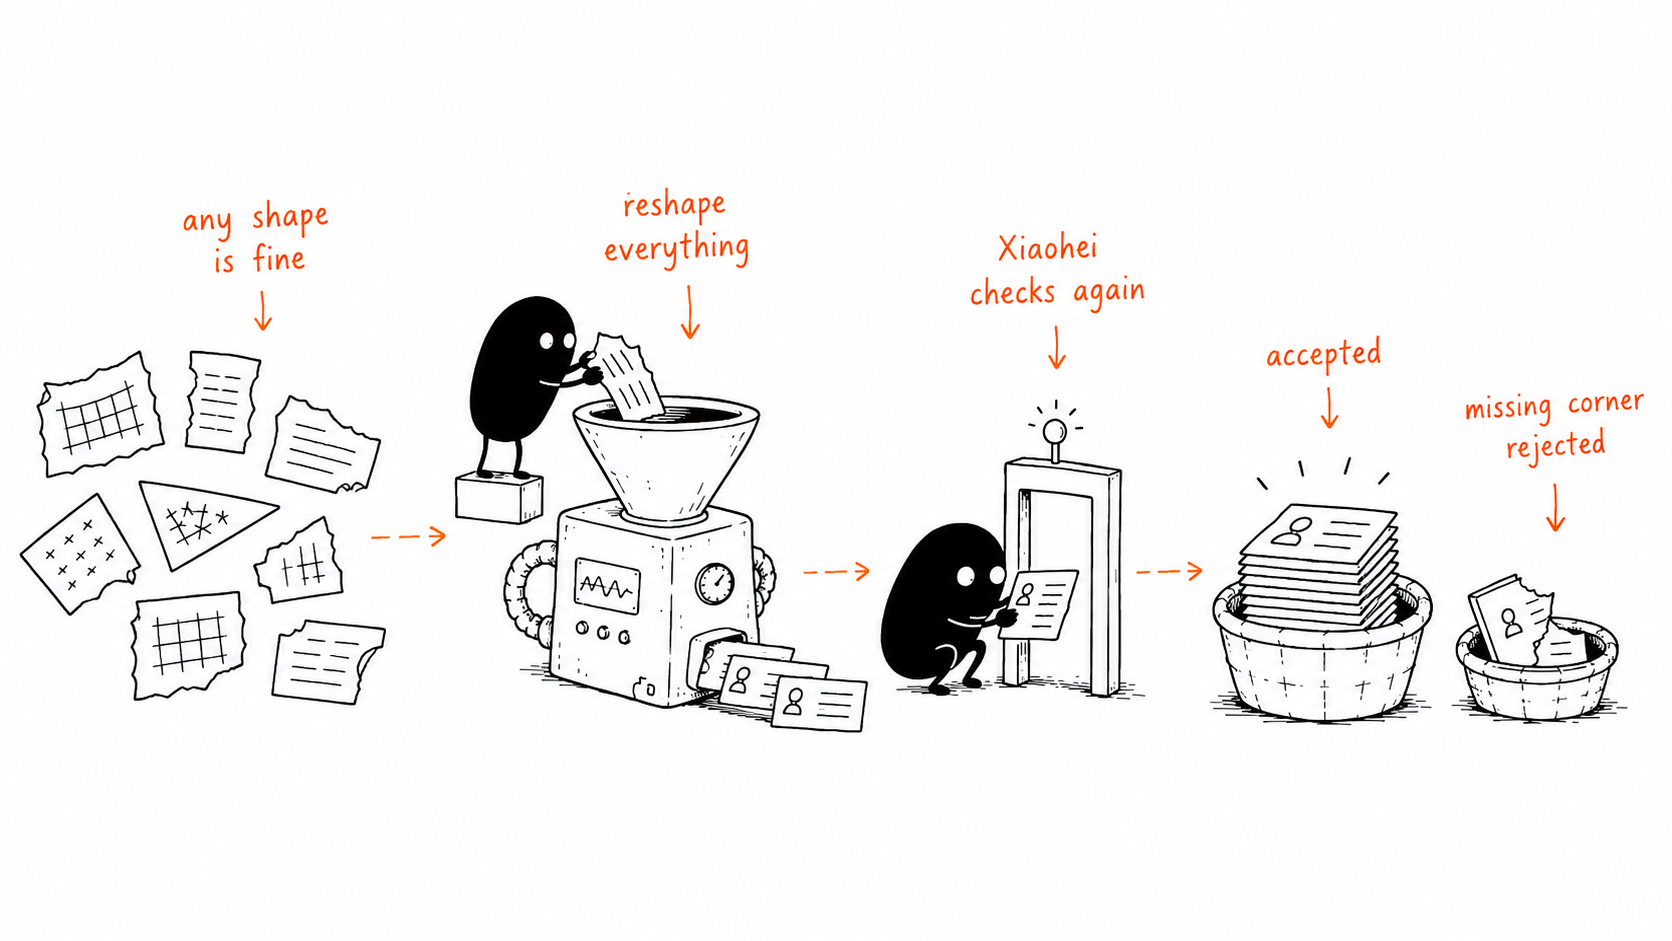
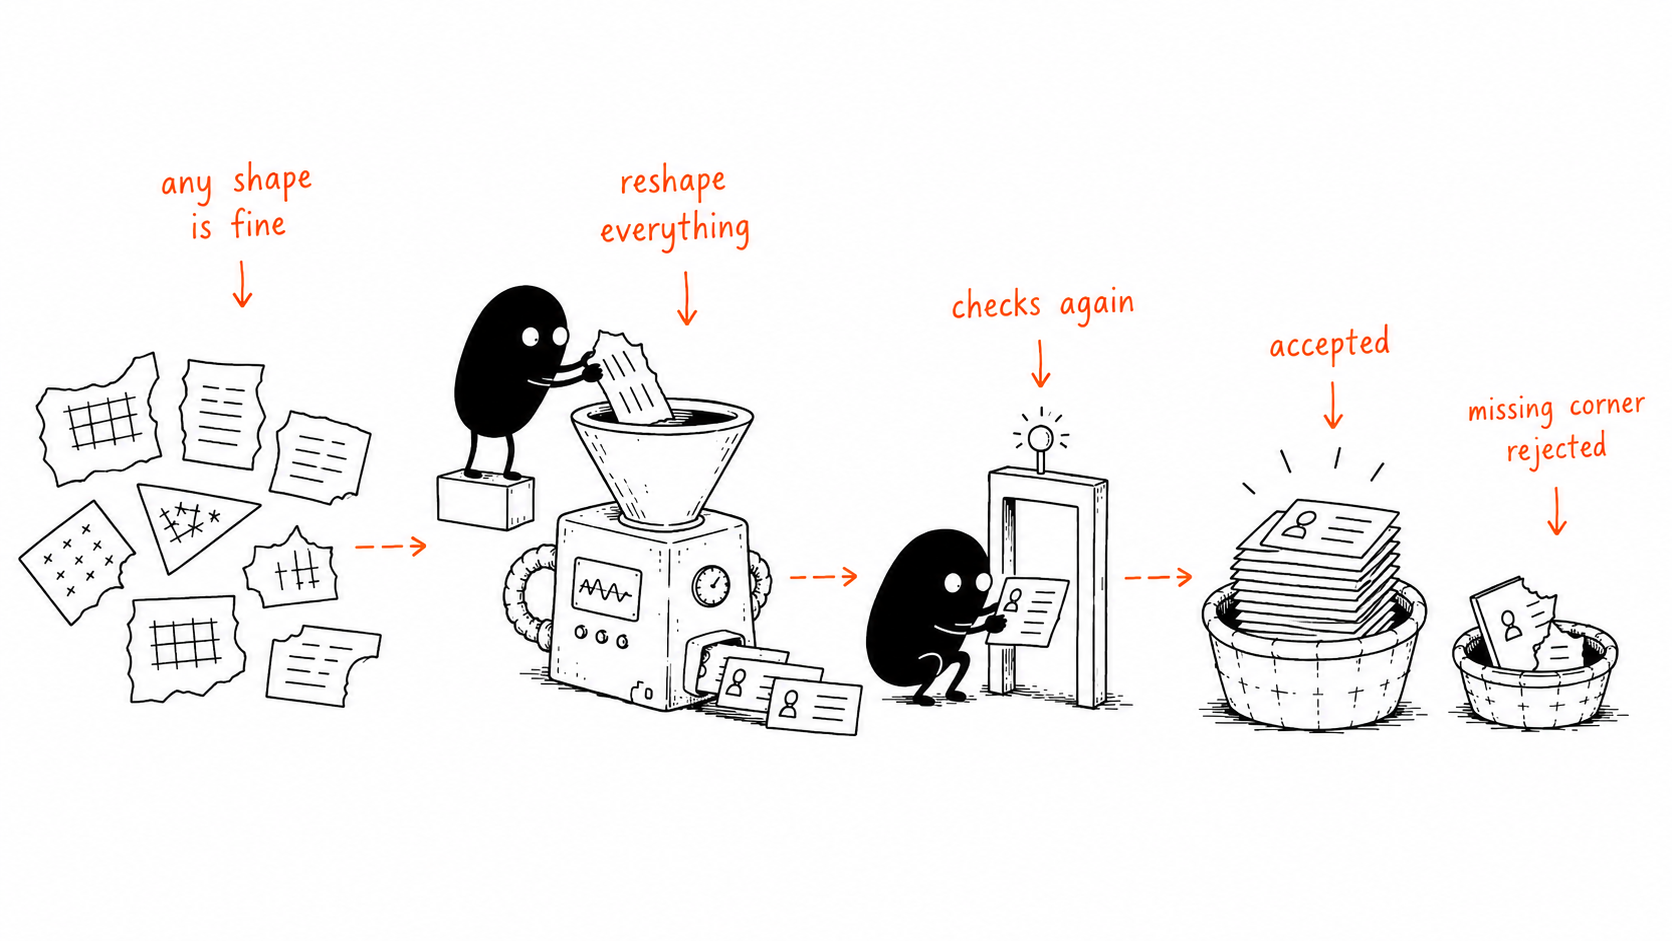
docs: swap how-it-works illustration and fix architecture diagram rendering
Replaces the illustration with an updated version and rewrites the
architecture diagram as plain-ASCII flow — the old box-drawing Unicode
diagram misaligned in GitHub's code-block font.

diff --git a/README.md b/README.md
@@ -7,7 +7,7 @@
 ![Node](https://img.shields.io/badge/node-%E2%89%A520.9-brightgreen)
 ![TypeScript](https://img.shields.io/badge/typescript-5.x-blue)
 ![Express](https://img.shields.io/badge/backend-express-lightgrey)
-![Next.js](https://img.shields.io/badge/frontend-next.js%20(app%20router)-black)
+![Next.js](<https://img.shields.io/badge/frontend-next.js%20(app%20router)-black>)
 ![Tests](https://img.shields.io/badge/tests-vitest-6E9F18)
 
 ![How the GrowEasy CSV Importer works: arbitrary-shaped CSVs go into an AI reshaping funnel, get re-checked, then split into accepted vs. rejected (missing contact info)](assets/illustrations/how-it-works.png)
@@ -61,32 +61,31 @@ Sanity check: `curl http://localhost:4000/health` → `{"status":"ok"}`.
 ## Architecture
 
 ```
-┌──────────────────────────────┐        ┌───────────────────────────────────────────┐
-│  frontend/  (Next.js)        │        │  backend/  (Express)                      │
-│                              │        │                                           │
-│  Dropzone ─▶ Papaparse ──▶ preview    │  multer (10 MB, CSV only)                 │
-│  (client-side, NO AI call)   │        │      │                                    │
-│                              │        │      ▼                                    │
-│  "Confirm Import"            │  POST  │  csvParser.ts (Papaparse, header trim)    │
-│      │                       │ /api/  │      │                                    │
-│      └──────────────────────────import──▶ aiExtractor.ts                          │
-│                              │        │      ├─ chunk rows into batches (20)      │
-│  ProcessingIndicator ◀────── NDJSON ──│      ├─ ≤3 batches in flight              │
-│  (progress per batch)        │ stream │      ├─ retry w/ exponential backoff      │
-│      │                       │        │      ▼                                    │
-│      ▼                       │        │  geminiClient.ts (structured output,      │
-│  ResultView                  │        │      responseSchema, temperature 0)       │
-│  (imported / skipped tabs)   │        │      │                                    │
-│                              │        │      ▼                                    │
-│                              │        │  validation.ts (server-side re-check)     │
-└──────────────────────────────┘        └───────────────────────────────────────────┘
+frontend/ (Next.js)
+  Dropzone -> Papaparse -> preview table      (client-side, NO AI call)
+  "Confirm Import" --------------------------------+
+                                                     |  POST /api/import
+                                                     v
+backend/ (Express)
+  multer (10 MB, CSV only)
+    -> csvParser.ts        parse buffer into rows (Papaparse, header trim)
+    -> aiExtractor.ts      chunk rows into batches of AI_BATCH_SIZE (20)
+                            run <=3 batches concurrently, retry w/ backoff
+    -> geminiClient.ts     structured output (responseSchema, temperature 0)
+    -> validation.ts       server-side re-check of every AI-returned record
+                                                     |
+                                                     |  NDJSON stream:
+                                                     |  progress event per batch,
+                                                     |  then one result/error event
+                                                     v
+frontend/ (Next.js)
+  ProcessingIndicator (progress per batch) -> ResultView (imported / skipped tabs)
 ```
 
 ```
 backend/    Express + TypeScript API — CSV parsing, batched AI field-mapping, validation
 frontend/   Next.js (App Router) + TypeScript + Tailwind — upload, preview, confirm, results
-samples/    Sample CSVs shaped like real-world lead sources, for manual testing
-docker-compose.yml
+samples/    Sample CSVs shaped like real-world lead sources, for manual testing docker-compose.yml
 ```
 
 ### Request lifecycle
@@ -135,11 +134,11 @@ object per line:
 }}
 ```
 
-| Event | When | Payload |
-| --- | --- | --- |
-| `progress` | Once up-front, then per completed AI batch | `batchesTotal`, `batchesDone`, `rowsProcessed`, `totalRows` |
-| `result` | Terminal, on success | `ImportResult` (see above) |
-| `error` | Terminal, if extraction throws after streaming began | `error` message string |
+| Event      | When                                                 | Payload                                                     |
+| ---------- | ---------------------------------------------------- | ----------------------------------------------------------- |
+| `progress` | Once up-front, then per completed AI batch           | `batchesTotal`, `batchesDone`, `rowsProcessed`, `totalRows` |
+| `result`   | Terminal, on success                                 | `ImportResult` (see above)                                  |
+| `error`    | Terminal, if extraction throws after streaming began | `error` message string                                      |
 
 Pre-stream failures use plain HTTP status codes: `400` for a missing file, non-CSV upload,
 unparseable CSV, or a CSV with no data rows; `429` from the rate limiter.
@@ -151,15 +150,15 @@ unparseable CSV, or a CSV with no data rows; `429` from the rate limiter.
 
 ### `backend/.env`
 
-| Variable | Description | Default |
-| --- | --- | --- |
-| `PORT` | Backend HTTP port | `4000` |
-| `CORS_ORIGIN` | Allowed CORS origin for the frontend | `*` |
-| `GEMINI_API_KEY` | Google Gemini API key (**required**) | — |
-| `GEMINI_MODEL` | Primary Gemini model | `gemini-3-flash-preview` |
-| `GEMINI_FALLBACK_MODEL` | Fallback model on capacity/quota errors (empty = disabled) | *(empty)* |
-| `AI_BATCH_SIZE` | CSV rows sent to Gemini per request | `20` |
-| `AI_BATCH_CONCURRENCY` | Batches processed in parallel | `3` |
+| Variable                | Description                                                | Default                  |
+| ----------------------- | ---------------------------------------------------------- | ------------------------ |
+| `PORT`                  | Backend HTTP port                                          | `4000`                   |
+| `CORS_ORIGIN`           | Allowed CORS origin for the frontend                       | `*`                      |
+| `GEMINI_API_KEY`        | Google Gemini API key (**required**)                       | —                        |
+| `GEMINI_MODEL`          | Primary Gemini model                                       | `gemini-3-flash-preview` |
+| `GEMINI_FALLBACK_MODEL` | Fallback model on capacity/quota errors (empty = disabled) | _(empty)_                |
+| `AI_BATCH_SIZE`         | CSV rows sent to Gemini per request                        | `20`                     |
+| `AI_BATCH_CONCURRENCY`  | Batches processed in parallel                              | `3`                      |
 
 > **Choosing models:** only configure models verified against the extraction schema. Several
 > current models (e.g. `gemini-3.5-flash`, `gemini-3.1-flash-lite`) silently drop rows/fields
@@ -168,8 +167,8 @@ unparseable CSV, or a CSV with no data rows; `429` from the rate limiter.
 
 ### `frontend/.env.local`
 
-| Variable | Description | Default |
-| --- | --- | --- |
+| Variable                   | Description                 | Default                 |
+| -------------------------- | --------------------------- | ----------------------- |
 | `NEXT_PUBLIC_API_BASE_URL` | Base URL of the backend API | `http://localhost:4000` |
 
 ## CRM schema & mapping rules
@@ -186,7 +185,7 @@ the Gemini `responseSchema` in `geminiClient.ts`) in sync when changing it.
   from any status/remark column by meaning ("junk" → `BAD_LEAD`, "deal won" → `SALE_DONE`),
   else `null`.
 - `data_source` ∈ `leads_on_demand | meridian_tower | eden_park | varah_swamy |
-  sarjapur_plots` — inferred from campaign/ad names when confident, else `null`. The model
+sarjapur_plots` — inferred from campaign/ad names when confident, else `null`. The model
   is told not to guess.
 - `created_at` must be parseable by `new Date(...)`; unparseable dates are coerced to `null`.
 - Multiple emails/phones in one row: first value wins, the rest are appended to `crm_note`.
@@ -224,13 +223,13 @@ are available in the UI via the sample picker on the upload screen.
 
 Each service is a separate npm workspace-less package — run commands from its own directory.
 
-| Command | `backend/` | `frontend/` |
-| --- | --- | --- |
-| `npm run dev` | API with hot reload (tsx watch) on `:4000` | Next.js dev server on `:3000` |
-| `npm run build` | Compile TypeScript to `dist/` | Production build |
-| `npm start` | Run compiled build | Serve production build |
-| `npm run lint` | ESLint over `src` | ESLint |
-| `npm test` | Vitest | Vitest + Testing Library (jsdom) |
+| Command         | `backend/`                                 | `frontend/`                      |
+| --------------- | ------------------------------------------ | -------------------------------- |
+| `npm run dev`   | API with hot reload (tsx watch) on `:4000` | Next.js dev server on `:3000`    |
+| `npm run build` | Compile TypeScript to `dist/`              | Production build                 |
+| `npm start`     | Run compiled build                         | Serve production build           |
+| `npm run lint`  | ESLint over `src`                          | ESLint                           |
+| `npm test`      | Vitest                                     | Vitest + Testing Library (jsdom) |
 
 > `npm run dev` reads `.env` **once at process start** — `tsx watch` restarts on source
 > changes only, so restart the backend manually after editing `.env`.
@@ -246,6 +245,7 @@ npx vitest run -t "splits multiple emails"       # tests matching a name
 ```
 
 **Backend** covers:
+
 - `csvParser.ts` — arbitrary headers, empty-file handling
 - `validation.ts` — enum/date coercion, multi-email/mobile splitting backstop, line-break
   escaping, the must-have-contact-info skip rule
@@ -253,6 +253,7 @@ npx vitest run -t "splits multiple emails"       # tests matching a name
   duplicate/invented `_row` indices don't double-count (Gemini is mocked)
 
 **Frontend** covers:
+
 - `lib/csv.ts` — parsing, header trimming, the 500-row preview cap
 - `lib/api.ts` — NDJSON stream handling: progress events, error events, network failures,
   streams that end without a `result`
